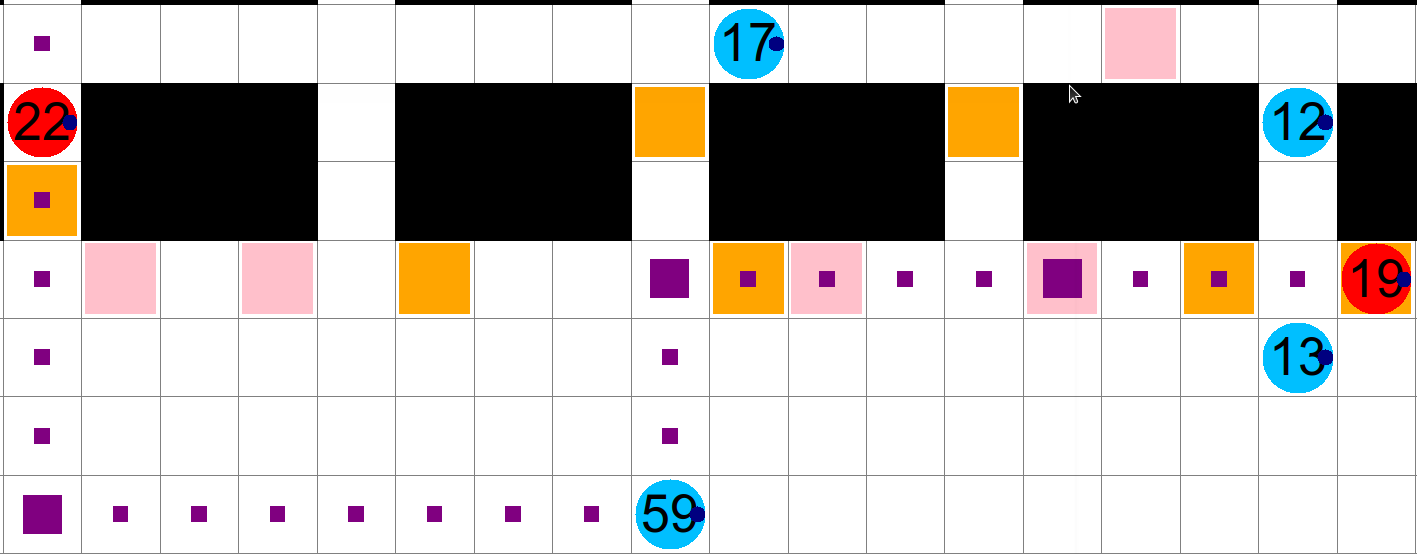
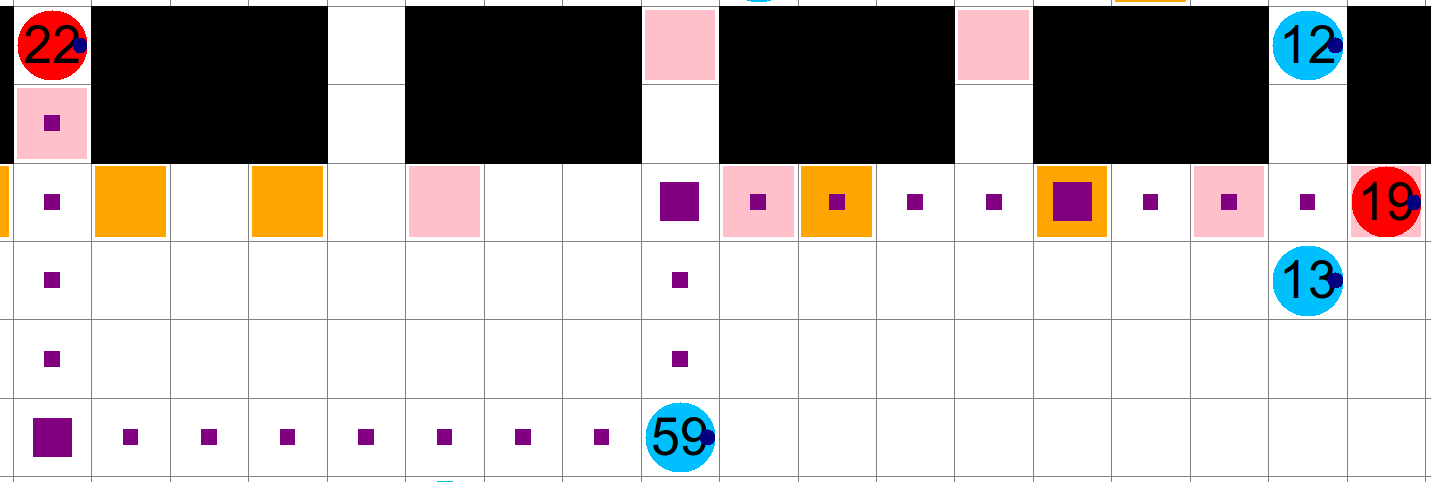
Update images

diff --git a/script/plan_viz.py b/script/plan_viz.py
@@ -16,7 +16,7 @@ import numpy as np
 from util import *
 
 TASK_COLORS: Dict[str, str] = {"unassigned": "pink",
-                               "newlyassigned": "gold",
+                               "newlyassigned": "yellowgreen",
                                "assigned": "orange",
                                "finished": "grey"}
 AGENT_COLORS: Dict[str, str] = {"collide": "red",
@@ -217,7 +217,12 @@ class PlanVis:
         task_label = tk.Label(self.frame, text = "Shown tasks", font = ("Arial", ui_text_size))
         task_label.grid(row=row_idx, column=0, columnspan=1, sticky="w")
         self.task_shown = ttk.Combobox(self.frame, width=8, state="readonly",
-                                       values=["all", "unassigned", "assigned", "finished", "none"])
+                                       values=["all",
+                                               "unassigned",
+                                               "newlyassigned",
+                                               "assigned",
+                                               "finished",
+                                               "none"])
         self.task_shown.current(0)
         self.task_shown.bind('<<ComboboxSelected>>', self.show_tasks_by_click)
         self.task_shown.grid(row=row_idx, column=1, sticky="w")
